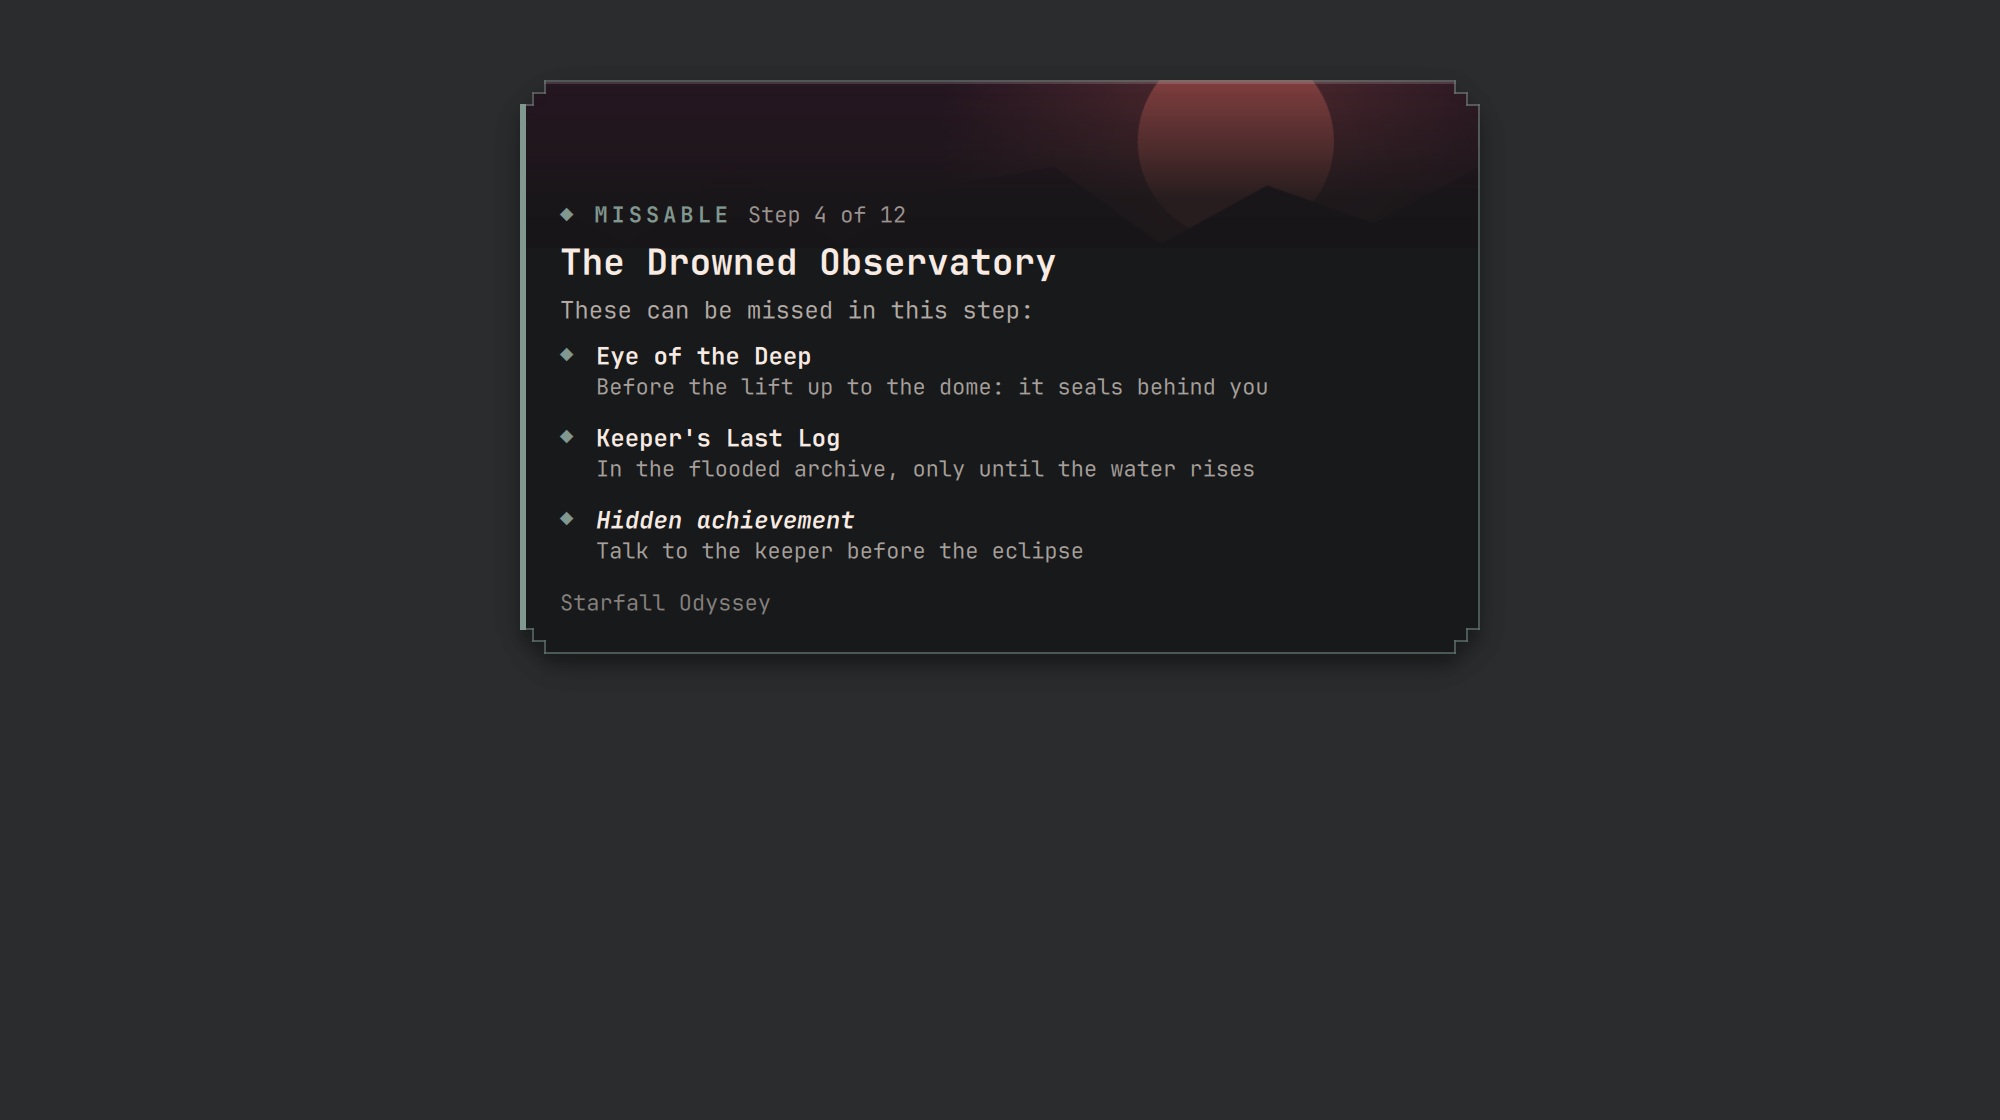
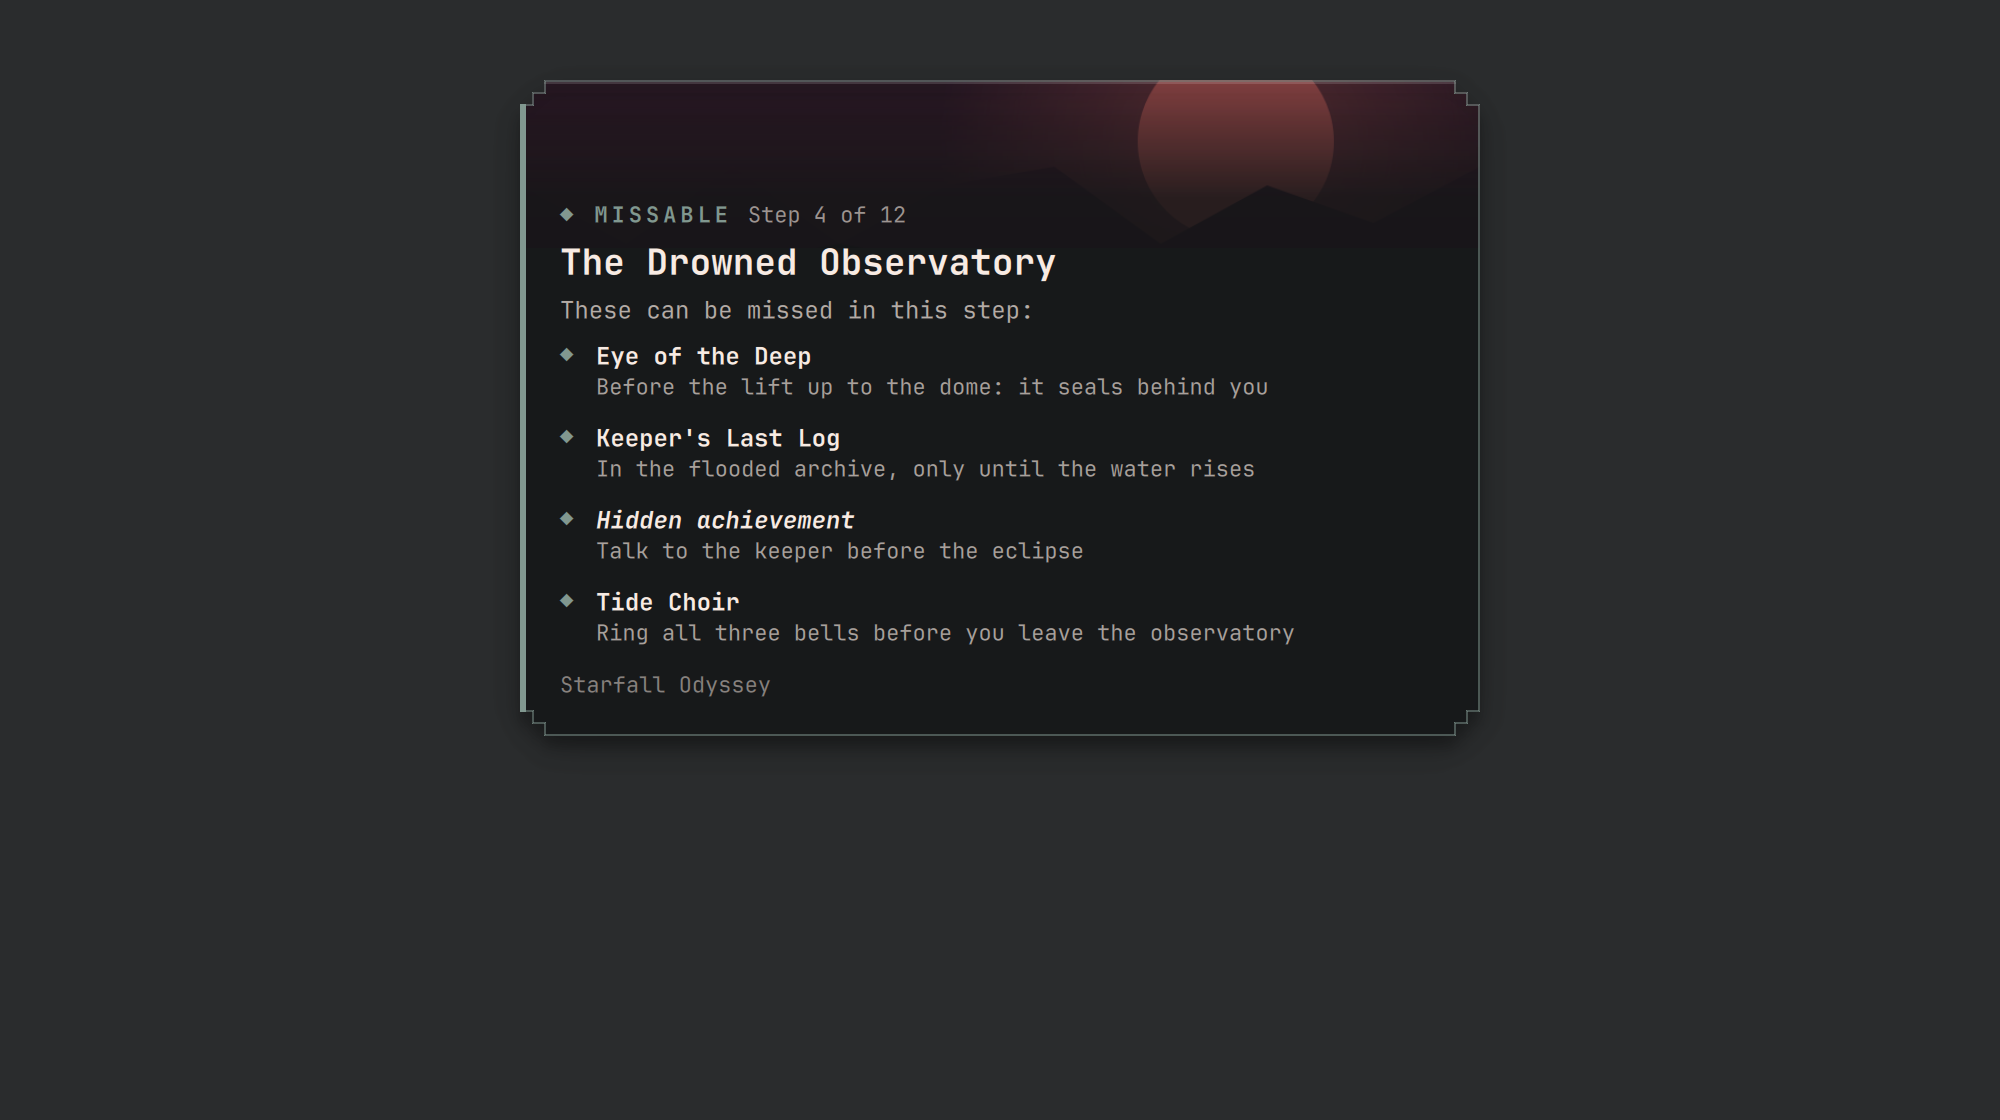
Close the platinum frames and tidy the Games rows and card gallery
From the pre-publish image review. The platinum card's border and the
trophy's earned frame broke like the Omarchy mark (a gap bottom right, a
notch at the left edge, a bite out of the tile's corner); at card size
they read as rendering glitches, so both frames are closed now, the
frame asset and its generator included. The "exit 0" joke beside the
count read as a bug in the saved image and is gone from both.

The platinum cup over a game's art sat bottom-right, on the title the
art carries there ("LANTERNS OF ASTER"); it now sits top-right on a dark
plate in the Games tab and the Now tab's recent games. The Games capture
is trimmed to its content.

The milestone toast takes the 480 px width every other card has, so the
gallery's left column lines up; a fourth missable in the sample event
(the card holds four) brings both columns level.

Changed region(s): [[0.248, 0.5312, 0.651, 0.625]]

diff --git a/PlatinumCard.qml b/PlatinumCard.qml
@@ -80,20 +80,19 @@ Item {
     glitter.burst(40); dust.burst(24)
   }
 
-  // The Omarchy logo's corners: cut in two grid steps, never rounded. With
-  // `broken`, an open outline with the two breaks of the Omarchy mark (left
-  // middle, bottom right), for the border; otherwise a closed shape to fill.
-  function stepped(w, h, s, inset, broken) {
-    var x0 = inset, y0 = inset, x1 = w - inset, y1 = h - inset, m = (y0 + y1) / 2, g = 20
-    var pts = [[x0, m - g / 2], [x0, y0 + 2 * s], [x0 + s, y0 + 2 * s], [x0 + s, y0 + s], [x0 + 2 * s, y0 + s], [x0 + 2 * s, y0],
+  // The Omarchy logo's corners: cut in two grid steps, never rounded. A
+  // closed shape, for the mask and the border alike: the border once broke
+  // like the Omarchy mark (left middle, bottom right), which read as a
+  // rendering glitch at card size (1.0.0 image review).
+  function stepped(w, h, s, inset) {
+    var x0 = inset, y0 = inset, x1 = w - inset, y1 = h - inset
+    var pts = [[x0, y0 + 2 * s], [x0 + s, y0 + 2 * s], [x0 + s, y0 + s], [x0 + 2 * s, y0 + s], [x0 + 2 * s, y0],
                [x1 - 2 * s, y0], [x1 - 2 * s, y0 + s], [x1 - s, y0 + s], [x1 - s, y0 + 2 * s], [x1, y0 + 2 * s],
                [x1, y1 - 2 * s], [x1 - s, y1 - 2 * s], [x1 - s, y1 - s], [x1 - 2 * s, y1 - s], [x1 - 2 * s, y1]]
     var path = "M" + pts.map(function(p) { return p[0] + " " + p[1] }).join(" L")
-    // The bottom-right break sits a little in from the corner.
-    if (broken) path += " L" + (x1 - 2 * s - 22) + " " + y1 + " M" + (x1 - 2 * s - 46) + " " + y1
     path += " L" + (x0 + 2 * s) + " " + y1 + " L" + (x0 + 2 * s) + " " + (y1 - s) + " L" + (x0 + s) + " " + (y1 - s)
-          + " L" + (x0 + s) + " " + (y1 - 2 * s) + " L" + x0 + " " + (y1 - 2 * s) + " L" + x0 + " " + (m + g / 2)
-    return broken ? path : path + " Z"
+          + " L" + (x0 + s) + " " + (y1 - 2 * s) + " L" + x0 + " " + (y1 - 2 * s)
+    return path + " Z"
   }
 
   function span(ev) {
@@ -342,7 +341,7 @@ Item {
       ShapePath {
         fillColor: root.bg
         strokeColor: "transparent"
-        PathSvg { path: root.stepped(card.width, card.height, 6, 0, false) }
+        PathSvg { path: root.stepped(card.width, card.height, 6, 0) }
       }
     }
 
@@ -355,7 +354,7 @@ Item {
       ShapePath {
         fillColor: "white"
         strokeColor: "transparent"
-        PathSvg { path: root.stepped(card.width, card.height, 6, 0, false) }
+        PathSvg { path: root.stepped(card.width, card.height, 6, 0) }
       }
     }
 
@@ -420,7 +419,7 @@ Item {
     }
 
 
-    // The border, broken like the Omarchy mark.
+    // The border, stepped like the Omarchy mark's corners.
     Shape {
       anchors.fill: parent
       ShapePath {
@@ -429,7 +428,7 @@ Item {
         strokeWidth: 2
         joinStyle: ShapePath.MiterJoin
         capStyle: ShapePath.FlatCap
-        PathSvg { path: root.stepped(card.width, card.height, 6, 2 / 2, true) }
+        PathSvg { path: root.stepped(card.width, card.height, 6, 2 / 2) }
       }
     }
 
@@ -545,7 +544,7 @@ Item {
       }
 
       // Progress as a square with stepped corners, walked clockwise from the
-      // top centre; at 100% it hands over to the broken frame below.
+      // top centre; at 100% it hands over to the frame below.
       Canvas {
         id: ring
         property real fill: 0
@@ -584,8 +583,8 @@ Item {
         }
       }
 
-      // The frame the trophy earns: broken like the Omarchy mark, in the
-      // theme accent. Revealed on the burst, replacing the progress square.
+      // The frame the trophy earns: a closed square rail in the theme
+      // accent. Revealed on the burst, replacing the progress square.
       Item {
         id: frame
         anchors.centerIn: parent
@@ -684,14 +683,8 @@ Item {
         Item {
           width: parent.width
           height: count.height
-          // A clean exit: the game has nothing left to give.
-          Text {
-            textFormat: Text.PlainText
-            text: "exit 0"
-            color: Qt.alpha(root.fg, 0.5)
-            font.family: Commons.Style.font.family
-            font.pixelSize: Commons.Style.font.bodySmall
-          }
+          // No "exit 0" on the left any more: a 1.0.0 viewer of the shared
+          // image read the joke as a bug.
           Text {
             textFormat: Text.PlainText
             id: count

diff --git a/StylePicker.qml b/StylePicker.qml
@@ -1234,6 +1234,25 @@ Column {
     onClicked: if (game) root.track(game.store, game.app, game.api || "")
   }
 
+  // A finished game's platinum cup over its art: top-right on a dark plate,
+  // so it reads over any header. Bottom-right it sat on the title a header
+  // carries there ("LANTERNS OF ASTER").
+  component PlatinumBadge: Rectangle {
+    property real size: 16
+    anchors.margins: 2
+    width: size + 4
+    height: size + 4
+    radius: 3
+    color: Qt.rgba(0, 0, 0, 0.55)
+    Thumb {
+      anchors.centerIn: parent
+      style: root.iconSet
+      metal: "platinum"
+      width: parent.size
+      height: parent.size
+    }
+  }
+
   // A quiet choice of a few options (the Games sort): plain words, the
   // chosen one on a soft accent pill. Lighter than ButtonGroup, so it
   // doesn't compete with the tabs above it.
@@ -2666,15 +2685,11 @@ Column {
           label: recentCard.modelData.game
           zoom: recentHit.containsMouse ? 1.06 : 1
         }
-        Thumb {
+        PlatinumBadge {
           visible: recentCard.platinum
           anchors.right: recentArt.right
-          anchors.bottom: recentArt.bottom
-          anchors.margins: 2
-          style: root.iconSet
-          metal: "platinum"
-          width: 20
-          height: 20
+          anchors.top: recentArt.top
+          size: 18
         }
 
         Column {
@@ -3907,15 +3922,11 @@ Column {
           opacity: gameRow.dim
           zoom: gameHit.containsMouse ? 1.06 : 1
         }
-        Thumb {
+        PlatinumBadge {
           visible: gameRow.platinum
           anchors.right: gameArt.right
-          anchors.bottom: gameArt.bottom
-          anchors.margins: 2
-          style: root.iconSet
-          metal: "platinum"
-          width: 16
-          height: 16
+          anchors.top: gameArt.top
+          size: 14
         }
         Column {
           id: gameBody

diff --git a/MilestoneCard.qml b/MilestoneCard.qml
@@ -21,7 +21,7 @@ Item {
   signal finished()
 
   readonly property int pad: 40
-  readonly property int cardWidth: 420
+  readonly property int cardWidth: 480
   readonly property color fg: Commons.Color.notifications.text
   readonly property color accent: Commons.Color.accent
   readonly property real share: event && event.max ? Math.min(1, event.value / event.max) : 0

diff --git a/design/icons/omarchy/generate.py b/design/icons/omarchy/generate.py
@@ -36,9 +36,10 @@ ACCENT = [
 ]
 # Two 8-unit breaks: left edge and lower edge. Each terminal drops from
 # 8 units to 4 units. This is an original single-frame construction.
+# A closed square rail: the two breaks after the Omarchy mark it once had
+# read as rendering glitches at card size (1.0.0 image review).
 FRAME = [
-    "M4 4H124V124H96V120H92V116H116V12H12V44H8V48H4Z",
-    "M4 56H8V60H12V116H80V120H84V124H4Z",
+    "M4 4H124V124H4Z M12 12V116H116V12Z",
 ]
 
 PALETTES = {

diff --git a/CHANGELOG.md b/CHANGELOG.md
@@ -39,6 +39,15 @@
   platinum all but vanished, and locked cups are dimmed less.
 - The Guide's Do now tiles lose the empty strip under them: the tick by
   hand sits beside the share of players instead.
+- The platinum card's frames are closed: the border and the trophy's
+  earned frame broke like the Omarchy mark (a gap bottom right, a notch
+  at the left), which read as rendering glitches, and the "exit 0" joke
+  beside the count is gone (it read as a bug in the saved image).
+- A finished game's platinum cup sits top-right on a dark plate over its
+  art in the Games tab and the Now tab's recent games; bottom-right it
+  covered the title the art carries there.
+- The milestone toast is as wide as every other card (480), so cards
+  line up wherever they show.
 - `dev/render.sh` draws on the GPU (as `omatrophy.py share` does), so
   card banners and the omarchy cups' inlay show in captures; without a GPU
   it falls back to software. New view: `settings-restart`.

diff --git a/README.md b/README.md
@@ -86,7 +86,7 @@ achievement list.
 - Steam and GOG today, and built for more: each store is a small module
   ([adding a store](docs/guide/stores.md)).
 
-![Four sample cards: a missable reminder naming the step and three trophies lost by moving on, a session recap with its rarest unlock, a difficulty reminder saying to start on Nightmare, and a milestone toast at 75% of a counter](docs/brand/captures/cards.png)
+![Four sample cards: a missable reminder naming the step and four trophies lost by moving on, a session recap with its rarest unlock, a difficulty reminder saying to start on Nightmare, and a milestone toast at 75% of a counter](docs/brand/captures/cards.png)
 
 ## Install
 

diff --git a/design/icons/omarchy/NOTES.md b/design/icons/omarchy/NOTES.md
@@ -42,7 +42,8 @@ against the light sheet background; the darker face carries the silhouette.
   `(56, 44)` with size `16 × 16`, centred at `(64, 52)`. Place the app's
   engraving inside that opening. No glyph is included.
 - `trophy-frame.svg` is an original white square frame with an 8-unit rail,
-  stepped terminals and two breaks, on the left and lower edges. Tint it
+  closed all round (until 1.0.0 it had two breaks after the Omarchy mark,
+  on the left and lower edges, which read as glitches at card size). Tint it
   independently and overlay at the same origin for framed platinum.
 
 All six canvases are `128 × 128`, with viewBox `0 0 128 128`. Trophy bounds

diff --git a/docs/runbooks/development.md b/docs/runbooks/development.md
@@ -122,6 +122,9 @@ colours and layout; `design/hero/` holds the brief it was drawn from.
      QT_SCALE_FACTOR=2 dev/render.sh --theme dos-moos "$v" "docs/brand/captures/$v.png"
    done
    dev/render.sh --theme dos-moos share docs/brand/captures/platinum-share.png
+   # The Games tab fills only its top half: trim it to its content.
+   magick docs/brand/captures/games.png -fuzz 2% -trim +repage \
+     -bordercolor '#131516' -border 40 docs/brand/captures/games.png
    ```
 
 2. Render the hero from the repository root:
